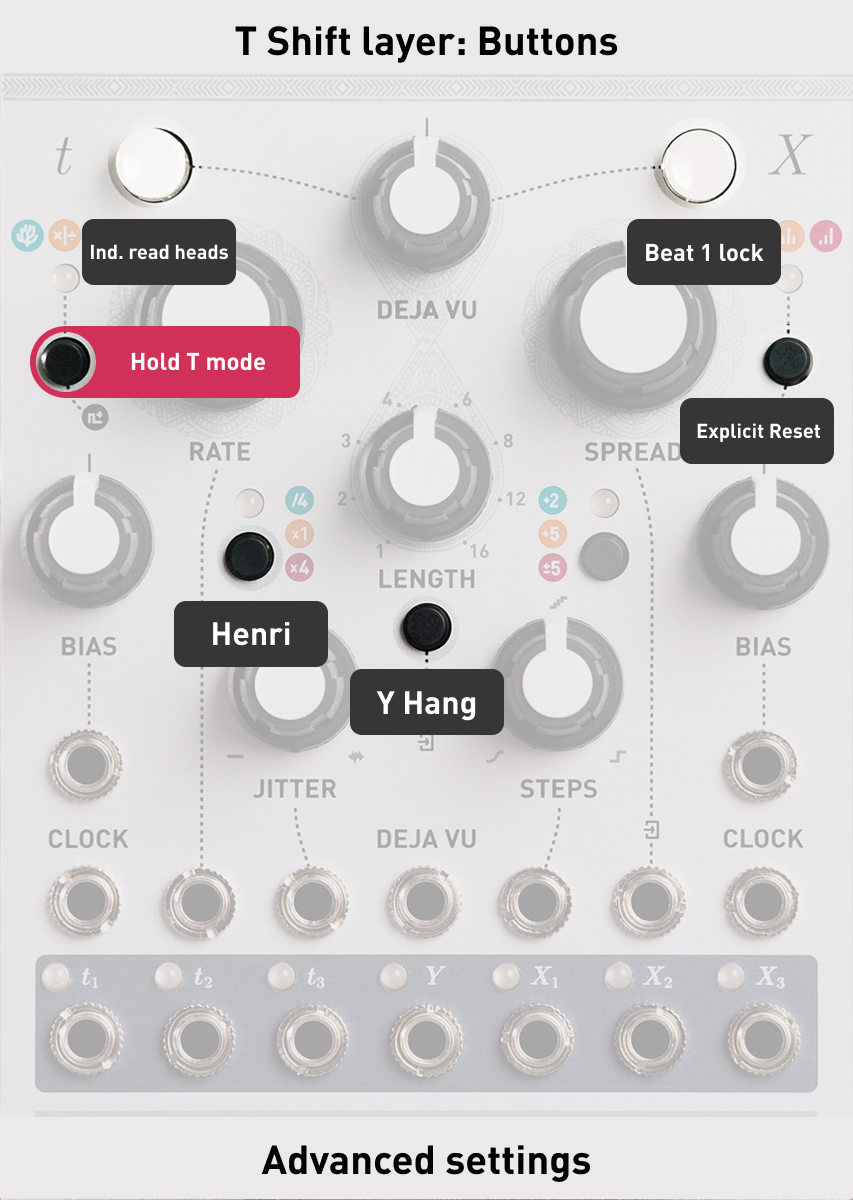
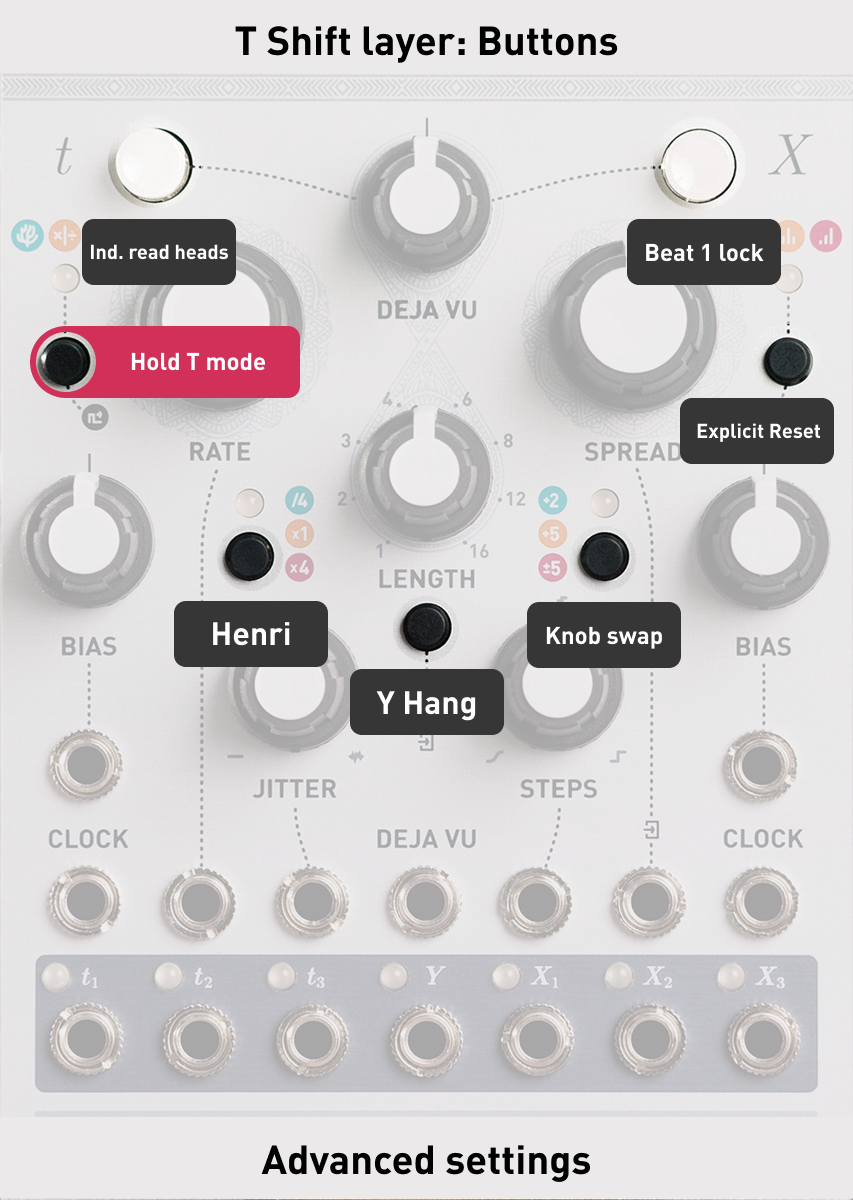
fix / manual update

Changed region(s): [[0.6096, 0.4317, 0.823, 0.555]]

diff --git a/marbles/ui.cc b/marbles/ui.cc
@@ -446,8 +446,8 @@ void Ui::UpdateLEDs() {
     uint32_t elapsed = system_clock.milliseconds() - explicit_reset_flash_time_;
     if (elapsed < 1000) {
       uint8_t er = settings_->state().explicit_reset;
-      if (er & 1) leds_.set(LED_T_DEJA_VU, fast_blink ? LED_COLOR_GREEN : LED_COLOR_OFF);
-      if (er & 2) leds_.set(LED_X_DEJA_VU, fast_blink ? LED_COLOR_GREEN : LED_COLOR_OFF);
+      leds_.set(LED_T_DEJA_VU, (er & 1) && fast_blink ? LED_COLOR_GREEN : LED_COLOR_OFF);
+      leds_.set(LED_X_DEJA_VU, (er & 2) && fast_blink ? LED_COLOR_GREEN : LED_COLOR_OFF);
     } else {
       explicit_reset_flash_time_ = 0;
     }
@@ -601,11 +601,11 @@ void Ui::OnSwitchReleased(const Event& e) {
       // Capture current knob positions into alt fields before swapping
       // (the fields switch meaning, so initialize with current ADC values)
       state->x_steps_alt = static_cast<uint8_t>(
-          cv_reader_->channel(ADC_CHANNEL_X_STEPS).unscaled_pot() * 255.0f);
+          cv_reader_->channel(ADC_CHANNEL_X_STEPS).unscaled_stored_pot() * 255.0f);
       state->x_bias_alt = static_cast<uint8_t>(
-          cv_reader_->channel(ADC_CHANNEL_X_BIAS).unscaled_pot() * 255.0f);
+          cv_reader_->channel(ADC_CHANNEL_X_BIAS).unscaled_stored_pot() * 255.0f);
       state->x_spread_alt = static_cast<uint8_t>(
-          cv_reader_->channel(ADC_CHANNEL_X_SPREAD).unscaled_pot() * 255.0f);
+          cv_reader_->channel(ADC_CHANNEL_X_SPREAD).unscaled_stored_pot() * 255.0f);
       state->grids_knob_swap = !state->grids_knob_swap;
       // Start catch-up from old alt values so the side that just switched
       // to live pot reading doesn't jump to the physical knob position.

diff --git a/marbles/random/x_y_generator.cc b/marbles/random/x_y_generator.cc
@@ -301,10 +301,10 @@ void XYGenerator::Process(
           time_value += bernoulli_amount * (bernoulli_value - time_value);
 
           // Skip fastest 20% of time range
-          time_value = 0.2f + time_value * 0.8f;
+          time_value = 0.3f + time_value * 0.7f;
 
           env_rate_[ch] = (1.0f / 32.0f)
-              * SemitonesToRatioSafe(-156.0f * time_value);
+              * SemitonesToRatioSafe(-180.0f * time_value);
           env_phase_[ch] = 0.0f;
         }
 
@@ -314,7 +314,7 @@ void XYGenerator::Process(
 
         if (phase < 1.0f) {
           float attack_fraction = steps;
-          CONSTRAIN(attack_fraction, 0.001f, 0.999f);
+          CONSTRAIN(attack_fraction, 0.001f, 0.9f);
 
           if (phase < attack_fraction) {
             // Attack phase
@@ -332,8 +332,6 @@ void XYGenerator::Process(
             float t_warped = t + snap * (t_fast - t);
             value = 1.0f - Interpolate(lut_raised_cosine, t_warped, 256.0f);
           }
-        } else {
-          value = (steps > 0.99f) ? 1.0f : 0.0f;
         }
 
         CONSTRAIN(value, 0.0f, 1.0f);

diff --git a/README.md b/README.md
@@ -1,6 +1,6 @@
 # Mutable Instruments - Marbles: Truchets
 
-A reimagining of Mutable Instruments [**_Grids_**](https://pichenettes.github.io/mutable-instruments-documentation/modules/grids/) drum pattern generator, now living inside Marbles. Truchets is built on [**_Marbles 1.3_**](https://pichenettes.github.io/mutable-instruments-documentation/modules/marbles/firmware/), it adds a new T-side mode while keeping all original Marbles functionality intact.
+A reimagining of Mutable Instruments [**_Grids_**](https://pichenettes.github.io/mutable-instruments-documentation/modules/grids/) drum pattern generator, now living inside Marbles. Truchets is built on [**_Marbles 1.3_**](https://pichenettes.github.io/mutable-instruments-documentation/modules/marbles/firmware/), it adds a new T-side mode and new X-side features while keeping all original Marbles functionality intact.
 
 <br>
 
@@ -11,12 +11,17 @@ When you need instructions on how to update your marbles go to the [**original m
 
 ## Contents
 
-1. [Activating Grids Mode](#activating-grids-mode)
-2. [Outputs](#outputs)
-3. [Standard Controls](#standard-controls)
+1. [Button Behavior](#button-behavior)
+2. [Marbles Enhancements](#marbles-enhancements)
+   - [X Modes](#x-modes)
+   - [X Ext Modes](#x-ext-modes)
+   - [Explicit Reset](#explicit-reset)
+3. [Activating Grids Mode](#activating-grids-mode)
+4. [Outputs](#outputs)
+5. [Standard Controls](#standard-controls)
    - [Density Knobs](#density-knobs)
    - [Deja Vu (T Side)](#deja-vu-t-side)
-4. [X Shift Layer - Knobs](#x-shift-layer---knobs)
+6. [X Shift Layer - Knobs](#x-shift-layer---knobs)
    - [Groove Offset](#groove-offset-x-bias)
    - [Rate](#rate-rate)
    - [Swing](#swing-jitter)
@@ -24,13 +29,98 @@ When you need instructions on how to update your marbles go to the [**original m
    - [Chaos](#chaos-spread)
    - [Accent Control](#accent-control-deja-vu)
    - [Accent Variation](#accent-variation-length)
-5. [X Shift Layer - Buttons](#x-shift-layer---buttons)
+7. [X Shift Layer - Buttons](#x-shift-layer---buttons)
    - [Pattern Banks](#pattern-banks)
    - [CV Swap Routing](#cv-swap-routing)
    - [Deja Vu CV Swap](#deja-vu-cv-swap)
-6. [Advanced Settings Layer](#advanced-settings-layer)
-7. [Patching Ideas](#patching-ideas)
-8. [Credits](#credits)
+8. [Advanced Settings Layer](#advanced-settings-layer)
+9. [Patching Ideas](#patching-ideas)
+10. [Credits](#credits)
+
+<br>
+
+## Button Behavior
+
+**T Mode** and **X Mode** buttons use tap and long-press to navigate between modes:
+
+| Press Duration | Behavior |
+|----------------|----------|
+| **Short tap** (< 275ms) | Cycle within current bank |
+| **Medium press** (275ms–2s) | Ignored (prevents accidental changes) |
+| **Long press** (≥ 2s) | Switch between banks (no blink/blink) |
+
+<br>
+
+## Marbles Enhancements
+
+These features extend the standard Marbles functionality and are available outside of Grids mode.
+
+### X Modes
+
+The **X Mode** button now has 5 modes split into two banks:
+
+| Bank  | LED State | Name |
+|------|-----------|------|
+| Basic | Solid Green | Identical |
+| Basic | Solid Orange | Bump |
+| Basic | Solid Red | Tilt |
+| Alternative | Blinking Green | Round Robin |
+| Alternative | Blinking Orange | Envelope |
+
+> Short tap cycles within the current bank. Long press switches between banks.
+
+#### Round Robin (Blinking green)
+
+Cycles through X1/X2/X3 outputs one at a time. Each clock pulse advances to the next channel. When clock is not patced the clocking signal comes from T2.
+
+#### Envelope (Blinking orange)
+
+Generates attack-decay envelopes on X outputs triggered by t1t2t3 or clock input.
+
+| Control | Function |
+|---------|----------|
+| **Spread** | Random envelope time distribution |
+| **Bias** | Envelope length |
+| **Steps** | Attack/decay ratio |
+
+> Output is fixed at 5V scale.
+
+**X Range** changes retrigger behavior:
+
+| LED State | Retrigger Mode |
+|-----------|----------------|
+| Green (narrow) | Hard reset on every trigger |
+| Orange (positive) | Only retrigger after attack phase (Serge-style) |
+| Red (full) | Only retrigger after envelope completes (legato) |
+
+> With external clock, envelopes trigger round-robin style (one channel per trigger). With internal clock, all channels trigger independently.
+
+### X Ext Modes
+
+**X Ext** cycles through 3 modes:
+
+| LED State | Mode | Function |
+|-----------|------|----------|
+| Off | Normal | Standard behavior |
+| Solid Green | External | Original external input behavior |
+| Blinking Green | Transpose | Spread CV input becomes V/Oct transposition |
+
+> In **Transpose** mode, the Spread CV input applies a pitch offset to all three X outputs. The input uses a V/Oct correction curve for tracking accuracy. While the hardware is not made for it this curve tries to fix that.
+
+### Explicit Reset
+
+Press **T Mode** + **X Mode** to cycle through 4 states:
+
+| State | LED Color | T Section Reset | X Section Reset |
+|-------|-----------|-----------------|-----------------|
+| Off | Disabled | Disabled |
+| 1 | Green | Enabled (T Jitter input) | Disabled |
+| 2 | Orange | Disabled | Enabled (X Steps input) |
+| 3 | Red | Enabled | Enabled |
+
+> After toggling, **T Deja Vu** and **X Deja Vu** LEDs flash for 1 second to indicate which sections are active.
+
+> Original Marbles 1.3 only had on or off.
 
 <br>
 
@@ -176,7 +266,7 @@ Change the pattern coordinates on the current bank.
 
 ### Pattern Banks
 
-Hold **X Mode** + tap **T Model** to cycle through pattern banks:
+Hold **X Mode** + tap **T Mode** to cycle through pattern banks:
 
 | LED State | Bank |
 |-----------|------|
@@ -220,19 +310,26 @@ Hold **X Mode** + tap **T Model** to cycle through pattern banks:
 
 ## Advanced Settings Layer
 
-**Hold T Model** and press buttons to toggle advanced settings.
+**Hold T Mode** and press buttons to toggle advanced settings.
 
 <img src="images/truchets_cheatsheet_4.png" style="width:500px;">
 
-| Hold T Model + Press | Setting | Off (default) | On (LED lit) |
+| Hold T Mode + Press | Setting | Off (default) | On (LED lit) |
 |----------------------|---------|---------------|--------------|
-| **T Range** | Read mode | Normal | Henri |
-| **X Ext** | Accent hang | Normal gates | Hanging accents |
 | **T Deja Vu** | Loop playhead | Shared playhead | Independent playhead |
 | **X Deja Vu** | Loop start | Dynamic (from current step) | Always from beat 1 |
-| **X Mode** | Explicit reset | Off | On |
+| **T Range** | Read mode | Normal | Henri |
+| **X Ext** | Accent hang | Normal gates | Hanging accents |
+| **X Range** | Knob swap | Off | On (LED green) |
+| **X Mode** | Explicit reset | Off | 4 states (see [Explicit Reset](#explicit-reset)) |
 
 ### Setting Descriptions
+
+#### Independent Loop Playhead (T Deja Vu)
+When **on**, the loop has its own playhead separate from the main pattern. When you unlock, playback stays in sync with where the pattern would have been.
+
+#### Loop from Beat 1 (X Deja Vu)
+When **on**, loops always start from step 1 of the pattern instead of the step where you activated the loop.
 
 #### Henri Mode (T Range)
 Switches pattern reading between Normal (original Grids algorithm) and Henri (alternate reading from Grids4Live Max plugin). Henri mode produces different rhythmic relationships between kick, snare, and hi-hat.
@@ -242,19 +339,18 @@ When **on** AND an accent variation is active, accents will sustain until the ne
 
 > This turns accent into a sample and hold output driven by accent and the current accent variation.
 
-#### Independent Loop Playhead (T Deja Vu)
-When **on**, the loop has its own playhead separate from the main pattern. When you unlock, playback stays in sync with where the pattern would have been.
+#### Knob Swap (X Range)
+When **on**, the Marbles knobs (**Steps**, **Bias**, **Spread**) directly control Grids coordinates (**Map X**, **Map Y**, **Chaos**). Marbles X parameters use stored alternate values. When **off** (default), Marbles knobs control Marbles X parameters and Grids coordinates comes from the shift layer.
 
-#### Loop from Beat 1 (X Deja Vu)
-When **on**, loops always start from step 1 of the pattern instead of the step where you activated the loop.
+> When toggling, current knob positions are captured to prevent parameter jumps.
+
+> Knob swap is independent of CV swap. CV swap routes CV inputs to Grids coordinates, while knob swap changes which parameters the physical knobs control. Both can be used at the same time.
 
 #### Explicit Reset (X Mode)
-Original Marbles 1.3 setting. When enabled, reset input resets the pattern to step 1 or to the first step of the loop window when looped.
-
-> [1.3 manual](https://pichenettes.github.io/mutable-instruments-documentation/modules/marbles/firmware/#:~:text=Implicit%20and%20explicit,experience%20odd%20timing.)
+Now supports 4 independent states for T and X sections. See [Explicit Reset](#explicit-reset) for full details.
 
 #### Gate length control (t Bias & Jitter)
-While **Holding T Model** the gate configuration parameters are still accessible. 
+While **Holding T Mode** the gate configuration parameters are still accessible. 
 > [Marbles manual about gate configuration](https://arc.net/l/quote/heojrdjx)
 
 
@@ -268,6 +364,7 @@ While **Holding T Model** the gate configuration parameters are still accessible
 - Self patching Marbles X side to any grid parameter can give great results. 
 - Having a high spread and steps on the X side can give random gate outputs driven by the Grids gate generation. Essentially creating 7 gate outputs.
 - Having a offset module patched to Map/Chaos cv in can give you direct control over these parameters without using the shift layer. Think of Stages, Shades or Blinds
+- Transpose mode lets you transpose X outputs with a sequencer or keyboard CV patched to the Spread CV input. Or you can add a extra lfo on top of the randomness.
 
 <br>
 